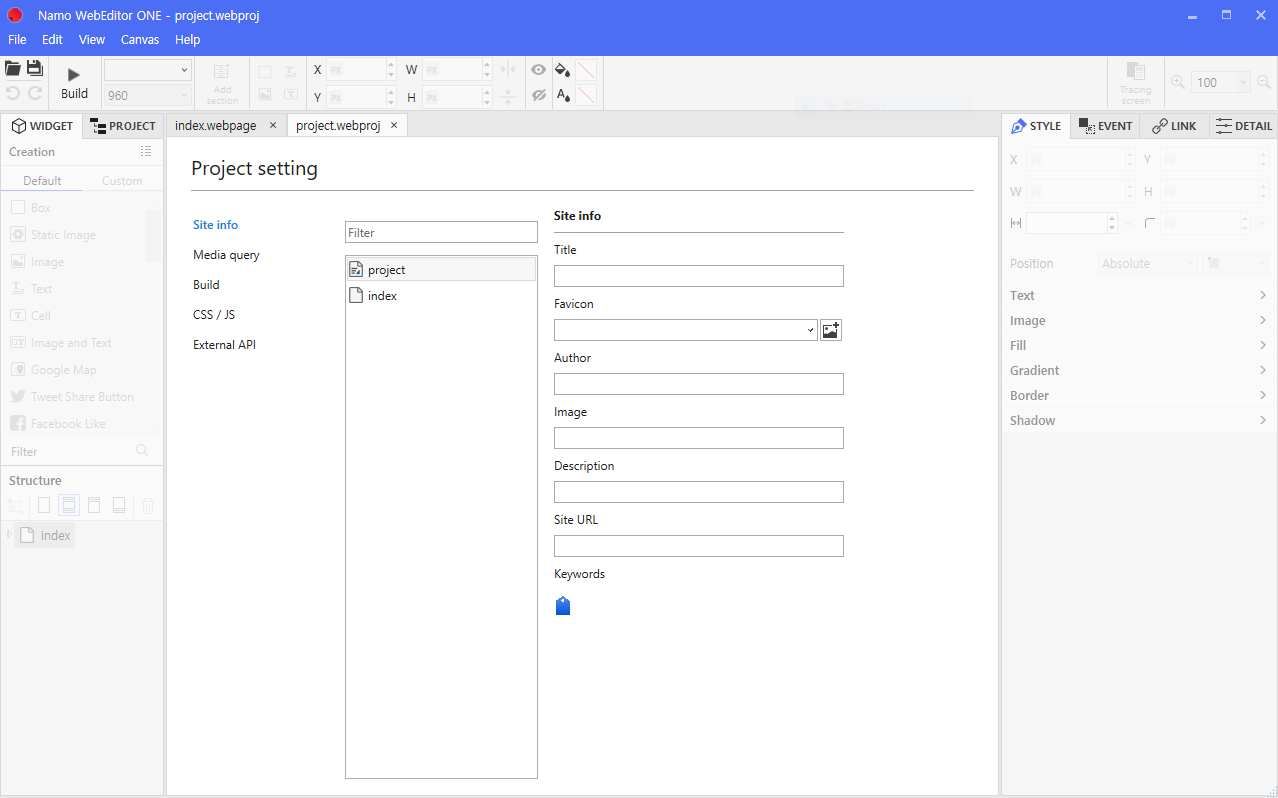
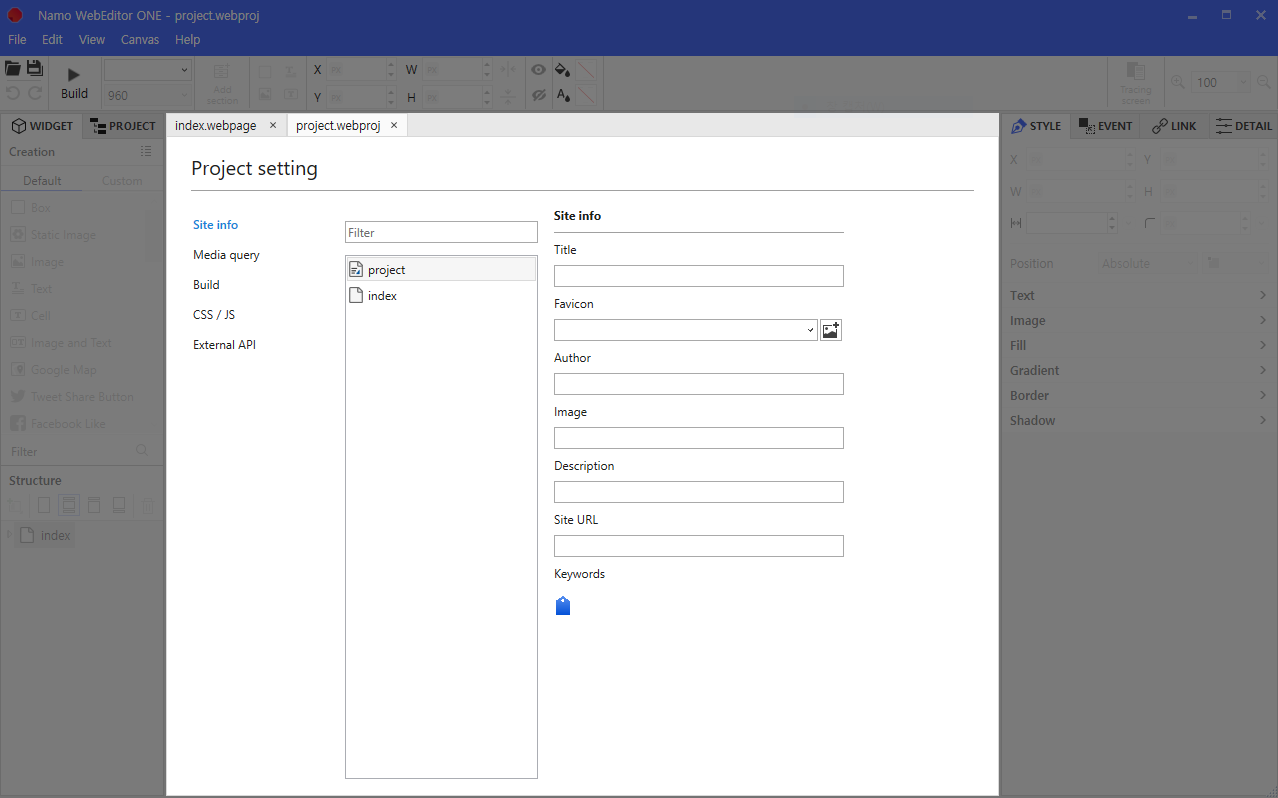
panels - detail img thumb으로 변경 / project setting img dim 처리

diff --git a/source/panels/detail.rst b/source/panels/detail.rst
@@ -1,9 +1,11 @@
 Detail
 =============================
 
+  .. thumbnail:: /_static/panels/detail/detail_new.png
+      :width: 100%
+      :group: panels
+      :title: Detail
+
 Detail property provides functionality for fine-tuning widgets.
 The circular UI in front is a UI that tells the property to apply the media query.
 Appears in orange when applied, and you can cancel the application by clicking on the UI.
-
-.. image:: /_static/panels/detail/detail_new.png
-  :width: 277
